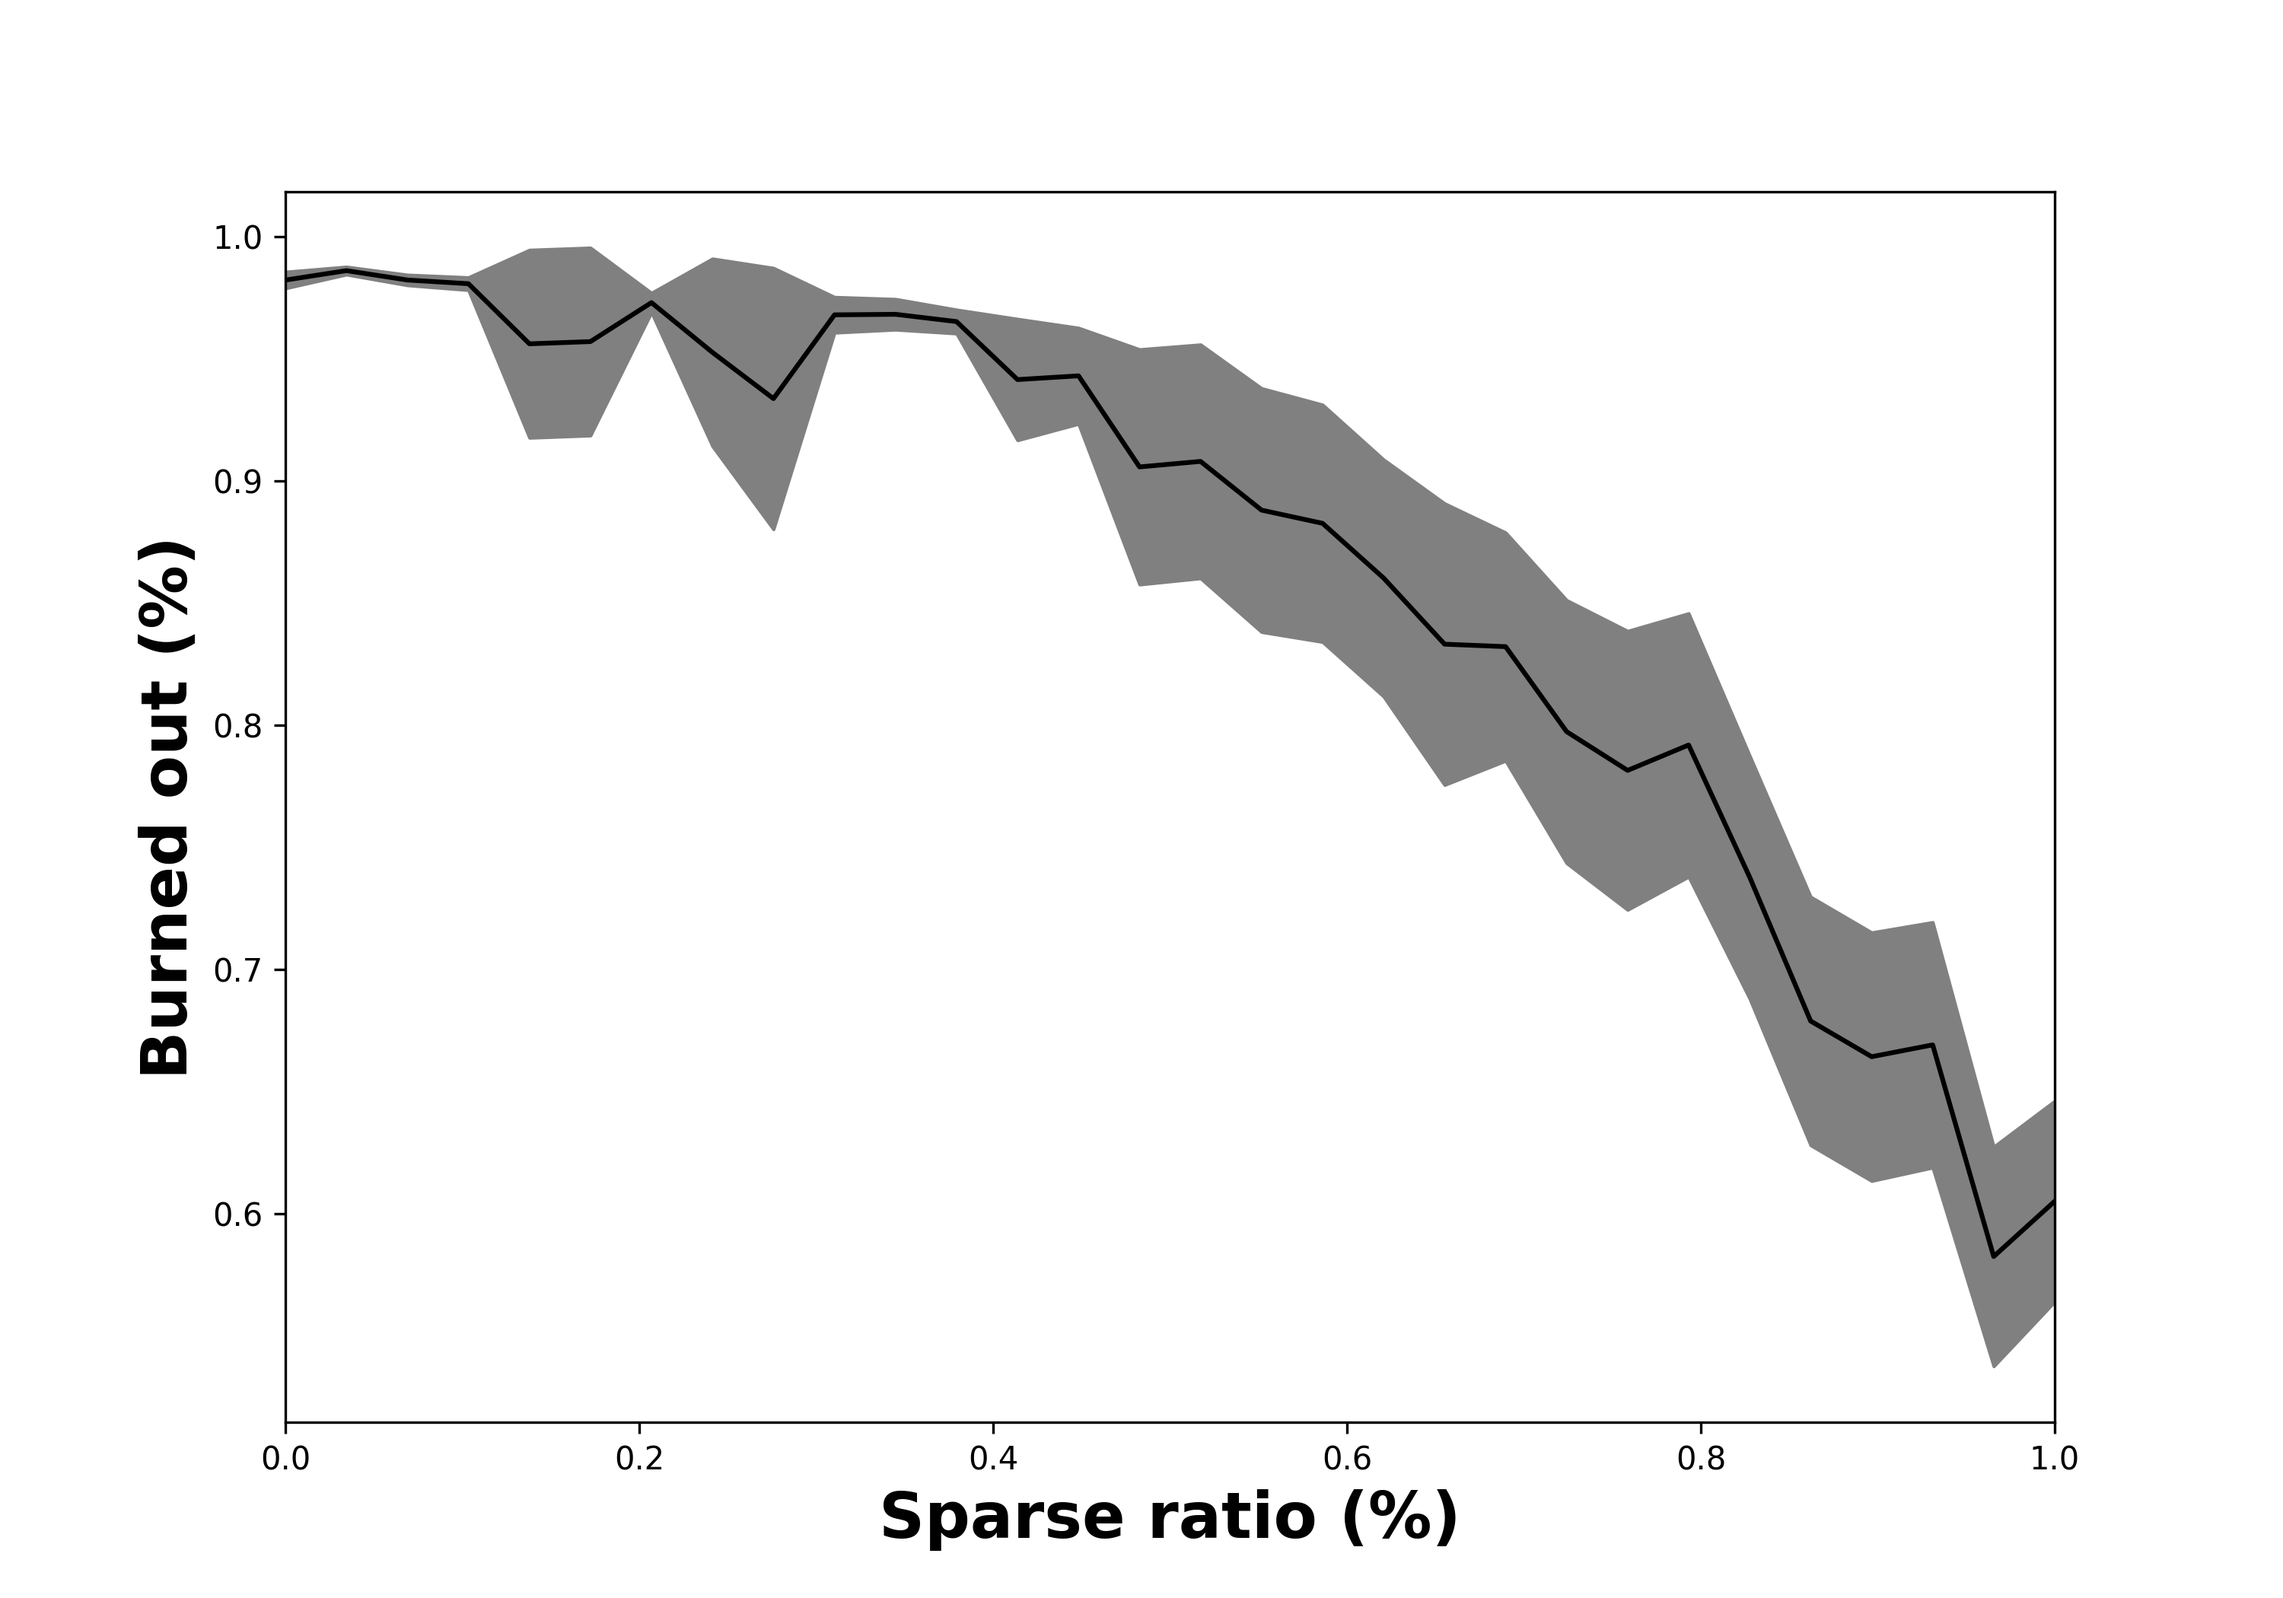
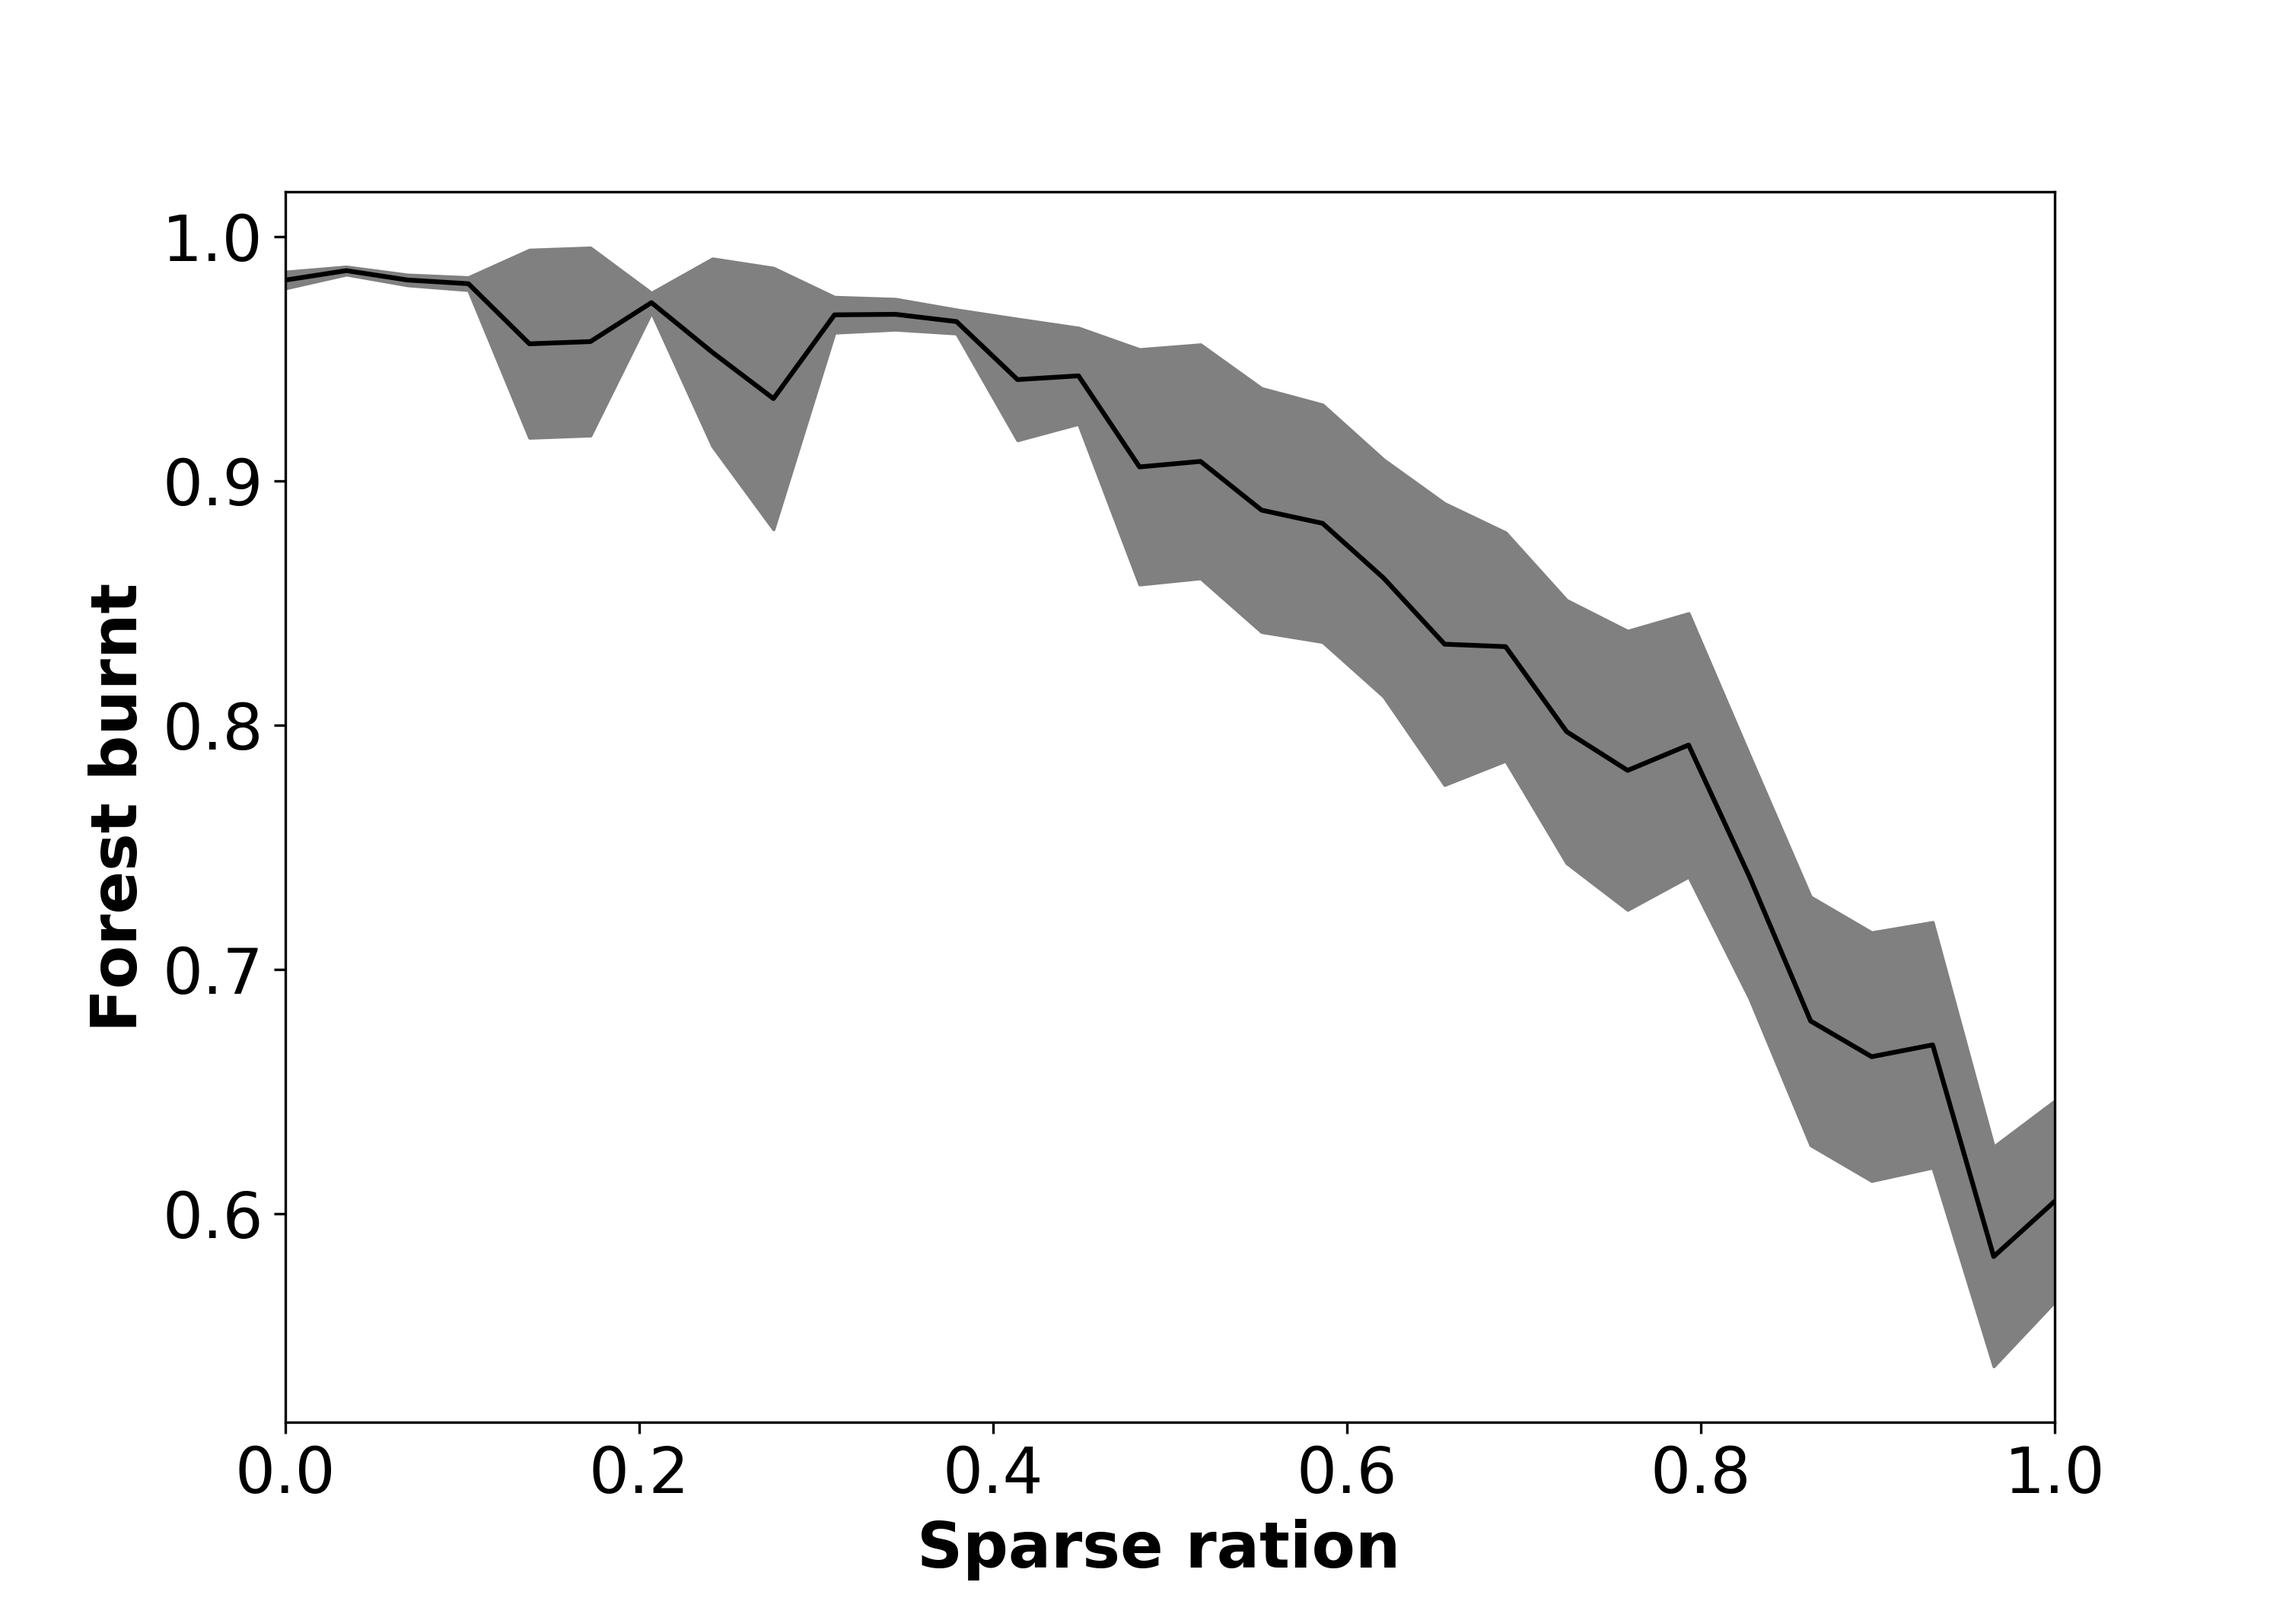
Merge remote-tracking branch 'origin/master'
# Conflicts:
#	src/agents/firetruck.py
# Stupid Travis

diff --git a/src/agents/firetruck.py b/src/agents/firetruck.py
@@ -291,10 +291,12 @@ class Walker(Agent):
 
     def indirect_attack(self):
 
+
+        global neighbor_down, neighbor_up, neighbor_right,neighbor_left
         fire_is_close = False
 
         neighbor_list = self.model.grid.get_neighbors(
-            self.pos, moore=True, radius=40, include_center=True)
+            self.pos, moore=True, radius=30, include_center=True)
 
         for neighbor in neighbor_list:
             if neighbor.condition == 'On Fire':
@@ -302,60 +304,121 @@ class Walker(Agent):
 
         if fire_is_close:
 
-            if self.model.grid.is_cell_empty:
-                list_of_cell_content = self.model.grid.get_cell_list_contents(
-                    self.pos)
-                for content in list_of_cell_content:
-                    if isinstance(content, TreeCell):
-                        content.condition = "Burned Out"
+            list_of_cell_content = self.model.grid.get_cell_list_contents(self.pos)
 
-                    else:
-                        if self.pos[0] >= max(firetrucks.pos[0] for firetrucks in self.model.firefighters_lists) and \
-                                self.pos[1] >= max(firetrucks.pos[1] for firetrucks in self.model.firefighters_lists):
+            for content in list_of_cell_content:
+                if isinstance(content, TreeCell) and content.condition == "Fine":
+                    content.condition = "Is Extinguished"
+                    self.extinguished += 1
 
-                            self.model.grid.move_agent(
-                                self, (self.pos[0], self.pos[1] - 1))
+                elif isinstance(content, TreeCell) or len(list_of_cell_content) == 1:
 
-                        elif self.pos[0] <= min(firetrucks.pos[0] for firetrucks in self.model.firefighters_lists) and \
-                                self.pos[1] <= min(firetrucks.pos[1] for firetrucks in self.model.firefighters_lists):
-                            self.model.grid.move_agent(
-                                self, (self.pos[0], self.pos[1] + 1))
+                    x_max = max(firetrucks.pos[0] for firetrucks in self.model.firefighters_lists)
+                    y_max = max(firetrucks.pos[1] for firetrucks in self.model.firefighters_lists)
+                    x_min = min(firetrucks.pos[0] for firetrucks in self.model.firefighters_lists)
+                    y_min = min(firetrucks.pos[1] for firetrucks in self.model.firefighters_lists)
 
-                        elif self.pos[0] <= min(firetrucks.pos[0] for firetrucks in self.model.firefighters_lists) and \
-                                self.pos[1] >= max(firetrucks.pos[1] for firetrucks in self.model.firefighters_lists):
-                            self.model.grid.move_agent(
-                                self, (self.pos[0] + 1, self.pos[1]))
 
-                        elif self.pos[0] >= max(firetrucks.pos[0] for firetrucks in self.model.firefighters_lists) and \
-                                self.pos[1] <= min(firetrucks.pos[1] for firetrucks in self.model.firefighters_lists):
-                            self.model.grid.move_agent(
-                                self, (self.pos[0] - 1, self.pos[1]))
+                    neighbor_list = self.model.grid.get_neighbors(
+                        self.pos, moore=False, radius=1, include_center=False)
 
-                        elif self.pos[0] <= min(firetrucks.pos[0] for firetrucks in self.model.firefighters_lists) and \
-                                self.pos[1] < max(firetrucks.pos[1] for firetrucks in self.model.firefighters_lists):
-                            self.model.grid.move_agent(
-                                self, (self.pos[0], self.pos[1] + 1))
+                    neighbor_right, neighbor_left, neighbor_up, neighbor_down = None,None,None,None
 
-                        elif self.pos[0] < max(firetrucks.pos[0] for firetrucks in self.model.firefighters_lists) and \
-                                self.pos[1] >= max(firetrucks.pos[1] for firetrucks in self.model.firefighters_lists):
-                            self.model.grid.move_agent(
-                                self, (self.pos[0] + 1, self.pos[1]))
+                    for i in neighbor_list:
 
-                        elif self.pos[0] >= max(firetrucks.pos[0] for firetrucks in self.model.firefighters_lists) and \
-                                self.pos[1] < max(firetrucks.pos[1] for firetrucks in self.model.firefighters_lists):
-                            self.model.grid.move_agent(
-                                self, (self.pos[0], self.pos[1] - 1))
+                        if i.pos[0]<self.pos[0]:
+                            neighbor_left=i
 
-                        elif self.pos[0] < max(firetrucks.pos[0] for firetrucks in self.model.firefighters_lists) and \
-                                self.pos[1] <= min(firetrucks.pos[1] for firetrucks in self.model.firefighters_lists):
-                            self.model.grid.move_agent(
-                                self, (self.pos[0] - 1, self.pos[1]))
+                        elif i.pos[0]>self.pos[0]:
+                            neighbor_right=i
 
-                        # in case the agent is not in the square to put it back
+                        elif i.pos[1] < self.pos[1]:
+                            neighbor_down = i
+
+                        elif i.pos[1] > self.pos[1]:
+                            neighbor_up = i
+
+
+                    if self.pos[0]==x_max and self.pos[1]==y_max:
+                        if neighbor_down:
+                            if neighbor_down.condition!="Is Extinguished":
+                                self.model.grid.move_agent(self, (self.pos[0], self.pos[1] - 1))
+                            else:
+                                self.model.grid.move_agent(self, (self.pos[0]-1, self.pos[1]))
+
+                        else:
+                            self.model.grid.move_agent(self, (self.pos[0], self.pos[1]-1))
+
+
+                    elif self.pos[0] == x_min  and self.pos[1] == y_min:
+                        if neighbor_up:
+                            if neighbor_up.condition!="Is Extinguished":
+                                self.model.grid.move_agent(self, (self.pos[0], self.pos[1] + 1))
+                            else:
+                                self.model.grid.move_agent(self, (self.pos[0]+1, self.pos[1]))
+                        else:
+                            self.model.grid.move_agent(self, (self.pos[0], self.pos[1]+1))
+
+
+                    elif self.pos[0] == x_min and self.pos[1] == y_max:
+                        if neighbor_right:
+                            if neighbor_right.condition !="Is Extinguished":
+                                self.model.grid.move_agent(self, (self.pos[0] + 1, self.pos[1]))
+                            else:
+                                self.model.grid.move_agent(self, (self.pos[0], self.pos[1]-1))
+                        else:
+                            self.model.grid.move_agent(self, (self.pos[0]+1, self.pos[1] - 1))
+
+                    elif self.pos[0] == x_max and self.pos[1] == y_min:
+                        if neighbor_left:
+                            if neighbor_left.condition != "Is Extinguished":
+                                self.model.grid.move_agent(self, (self.pos[0] -1, self.pos[1]))
+                            else:
+                                self.model.grid.move_agent(self, (self.pos[0], self.pos[1]+1))
+                        else:
+                            self.model.grid.move_agent(self, (self.pos[0]-1, self.pos[1]))
+
+                    elif self.pos[0] == x_min and self.pos[1] < y_max:
+                        if neighbor_up:
+                            if neighbor_up.condition !="Is Extinguished":
+                                self.model.grid.move_agent(self, (self.pos[0], self.pos[1] + 1))
+                            else:
+                                self.model.grid.move_agent(self, (self.pos[0], self.pos[1] -1 ))
+                        else:
+                            self.model.grid.move_agent(self, (self.pos[0], self.pos[1] + 1))
+
+
+                    elif self.pos[0] <x_max and self.pos[1] >= y_max:
+                      if neighbor_right:
+                        if neighbor_right.condition  != "Is Extinguished":
+                            self.model.grid.move_agent(self, (self.pos[0] + 1, self.pos[1]))
+                        else:
+                            self.model.grid.move_agent(self, (self.pos[0] - 1, self.pos[1]))
+                      else:
+                        self.model.grid.move_agent(self, (self.pos[0] + 1, self.pos[1]))
+
+                    elif self.pos[0] >=x_max and self.pos[1] < y_max:
+                        if neighbor_down:
+                            if neighbor_down.condition  != "Is Extinguished":
+                                self.model.grid.move_agent(self, (self.pos[0], self.pos[1] - 1))
+                            else:
+                                self.model.grid.move_agent(self, (self.pos[0], self.pos[1] + 1))
+                        else:
+                            self.model.grid.move_agent(self, (self.pos[0], self.pos[1] -1))
+
+
+                    elif self.pos[0] < x_max and self.pos[1] <= y_min:
+                        if neighbor_left:
+                            if neighbor_left.condition  != "Is Extinguished":
+                                self.model.grid.move_agent(self, (self.pos[0] - 1, self.pos[1]))
+                            else:
+                                self.model.grid.move_agent(self, (self.pos[0] + 1, self.pos[1]))
+                        else:
+                            self.model.grid.move_agent(self, (self.pos[0] - 1, self.pos[1]))
+
 
         else:
             self.optimized_closest_fire()
-
 
 class Firetruck(Walker):
     def __init__(self, model, unique_id, pos,

diff --git a/src/sensitivity_analysis/ofat_sa_plot.py b/src/sensitivity_analysis/ofat_sa_plot.py
@@ -7,6 +7,8 @@ This code was implemented by
 Louis Weyland & Robin van den Berg, Philippe Nicolau, Hildebert Mouilé & Wiebe Jelsma
 
 """
+import sys
+sys.path.append('../')
 import matplotlib.pyplot as plt
 import os
 import pandas as pd
@@ -20,23 +22,71 @@ data_1 = {}
 data_2 = {}
 data_3 = {}
 
-list_var = ['density']
-rep = 100
-dist = 70
+var = 'num_firetruck'
+x_label='Number of firetrucks #'
+param = 'On Fire'
+replicates = 50
+distinct_samples = 50
+file_name='truckstrategy_3_ofat_num_firetruck___repli_50__dist_samp_30.csv'
+plot_name='truckstrategy_3_ofat_num_firetruck___repli_50__dist_samp_30'
+
+df=pd.read_csv(file_name)
+
+x = df.groupby(var).mean().reset_index()[var]
+y = df.groupby(var).mean()[param]
+
+replicates = df.groupby(var)[param].count()
+err = (1.96 * df.groupby(var)[param].std()) / np.sqrt(replicates)
+
+
+
+f, ax = plt.subplots(1, figsize=(10, 7))
+
+ax.plot(x, y, c='k')
+ax.fill_between(x, y - err, y + err,color='gray')
+
+ax.set_xlabel(x_label,fontweight='bold',fontsize=20)
+ax.set_ylabel('Forest burnt',fontweight='bold',fontsize=20)
+
+ax.xaxis.set_tick_params(labelsize=20)
+ax.yaxis.set_tick_params(labelsize=20)
+
+ax.set_xticks(range(1,30,6))
+
+
+plt.xlim([1, 30])
+plt.ylim([0, .5])
+plt.show()
+plt.savefig(plot_name, dpi=300)
+
+
+
+
+
+
+
+'''
 
 # Load the files into dict
 for filename in os.listdir('.'):
-    if filename.startswith("ofat"):
+    if filename.startswith("ofat_sparse_ratio___repli_50__dist_samp_50"):
         data_1[filename.split('.csv')[0]] = pd.read_csv(filename)
 
 for filename in os.listdir('.'):
-    if filename.startswith("ofat_2"):
+    if filename.startswith("truckstrategy_2"):
         data_2[filename.split('.csv')[0]] = pd.read_csv(filename)
 
 
 for filename in os.listdir('.'):
-    if filename.startswith("ofat_3"):
+    if filename.startswith("truckstrategy_3"):
         data_3[filename.split('.csv')[0]] = pd.read_csv(filename)
+
+
+
+
+
+
+
 
 
 for var in list_var:
@@ -106,3 +156,6 @@ for var in list_var:
         ax[2].set_xlabel(var)
         ax[2].set_ylabel("Extinguished")
         ax[2].legend()
+
+
+'''

diff --git a/src/environment/vegetation.py b/src/environment/vegetation.py
@@ -41,7 +41,7 @@ class TreeCell(Agent):
         self.unique_id = unique_id
         self.condition = "Fine"
         self.life_bar = 100       # give the tree a life bar
-        self.burning_rate = 20   # need to change that as well
+        self.burning_rate = 20  # need to change that as well
         self.trees_claimed = 0
         self.fire_bar = 0
 
